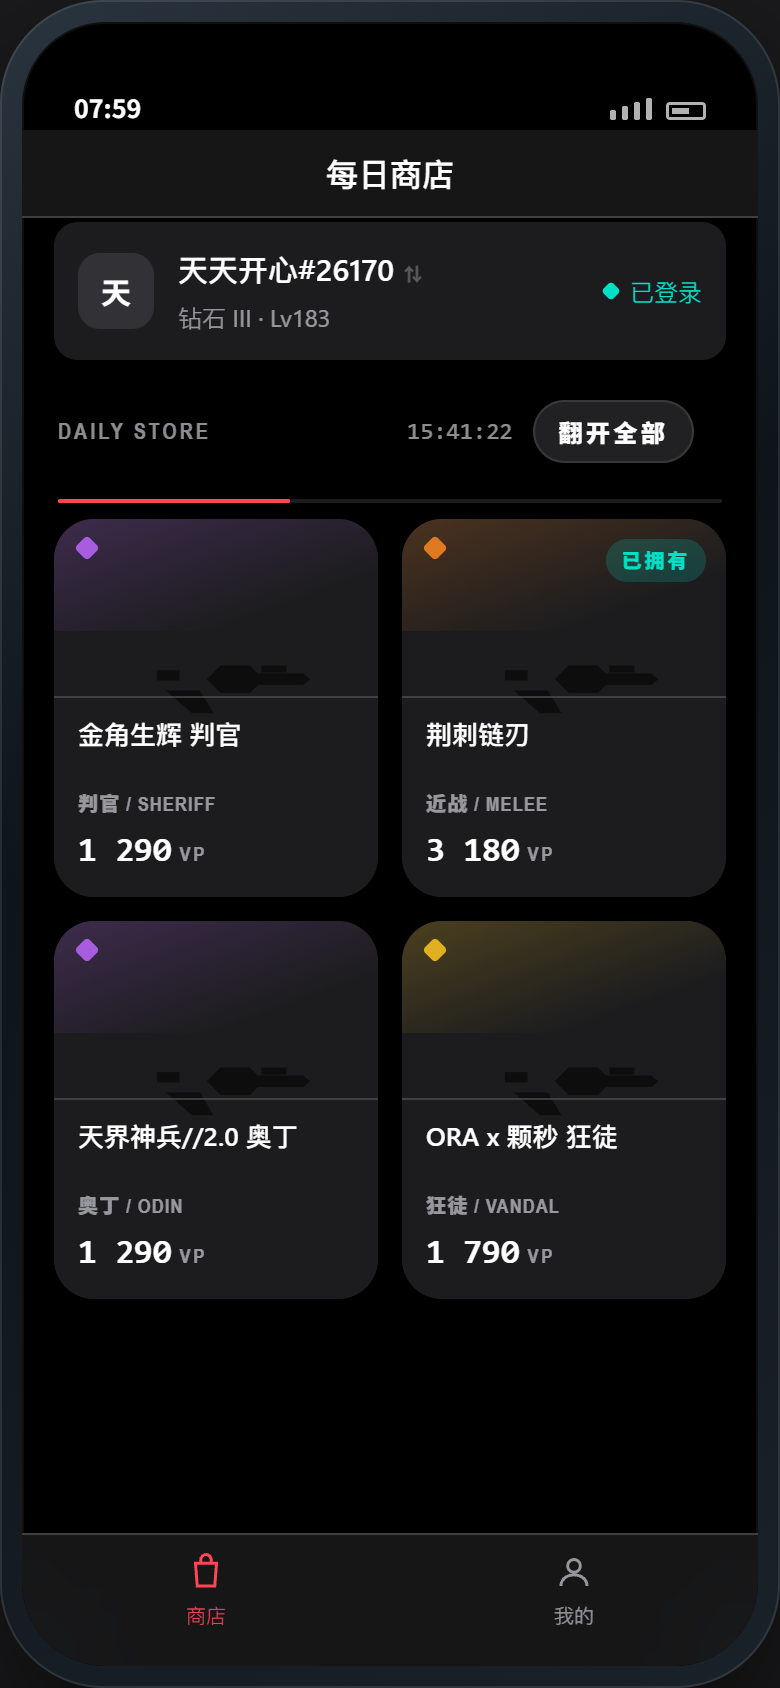
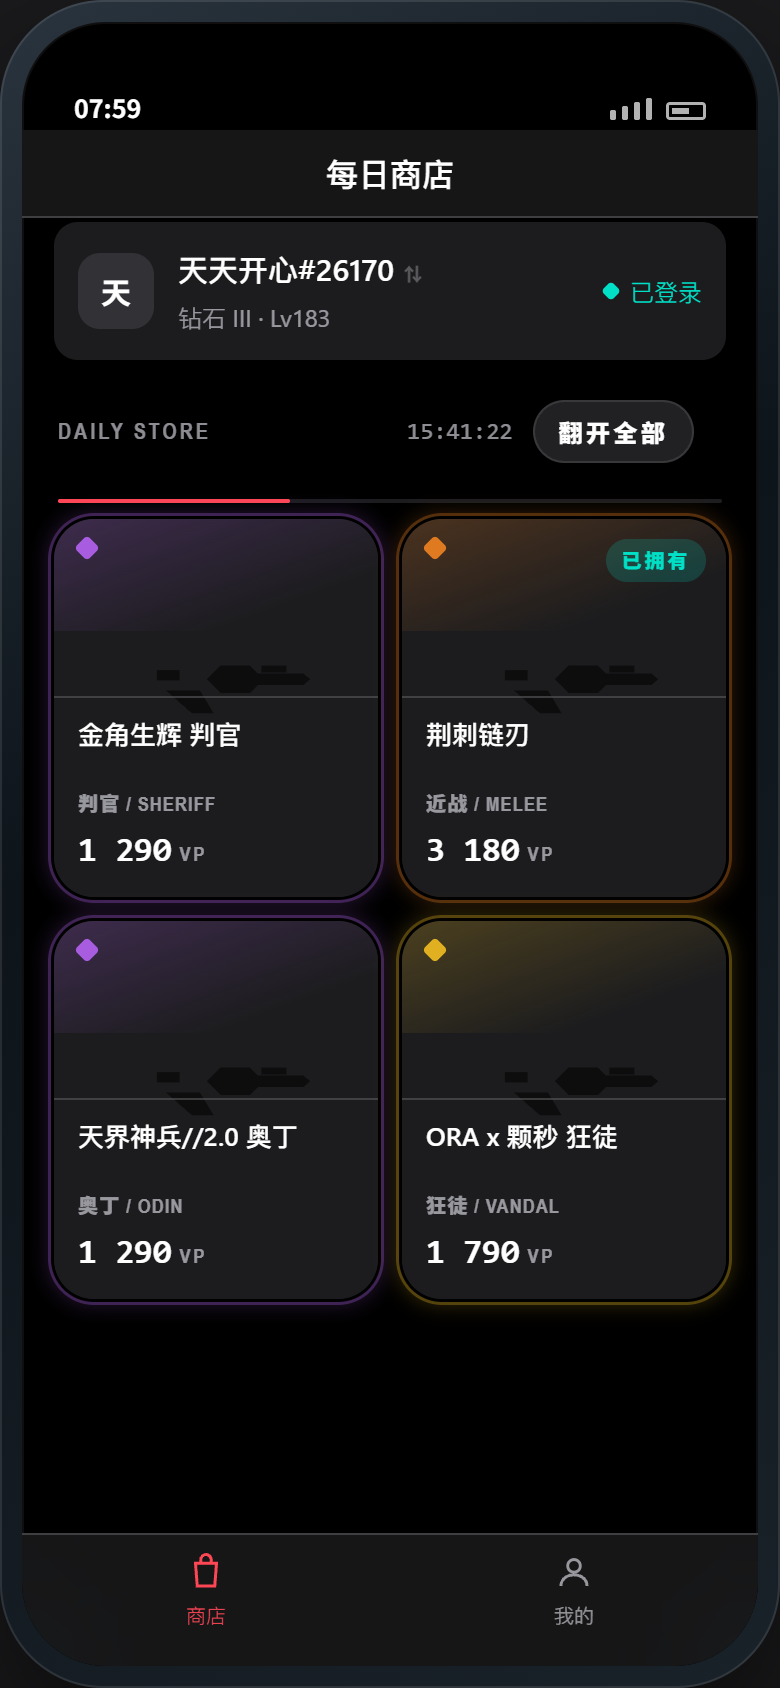
品质光修三处：连续路径、放慢、翻完之后常亮变淡
1) 断成四块
   原来对 RoundedRectangle 做 trim —— 它的 path 是多段子路径，trim 会按子路径
   分别裁剪，于是光变成四段。新增 ZWRing（单条连续子路径的圆角矩形），
   光的轨迹才是绕一圈连续的。

2) 太快
   扫一圈从 0.02–0.30（0.25s）放到 0.02–0.40，总时长 0.9 → 1.1s

3) 翻完光没了
   原来是淡出到 0。现在扫的时候最亮（flipGlow 1.0），翻到正面后收到
   flipGlowResting 0.38 常亮 —— 光一直在，只是变淡
   光头（跑动那段）扫完就收，只留整圈的品质光

时间线
- 0.00–0.40 光绕一圈    0.02–0.32 抬升
- 0.40–0.92 翻转（0.66 换面）  0.86–1.00 落下
- 0.58–0.88 光收到 38% 常亮

其它
- 预览台：光扫得更慢（1.1s），翻完后 ::after 常亮一圈品质色
- README 时间线同步

diff --git a/val-shop-ios/App/FlipCard.swift b/val-shop-ios/App/FlipCard.swift
@@ -66,37 +66,44 @@ private struct Flipper<Back: View, Front: View>: View, Animatable {
     /// 缓出：光跑起来时头快尾慢，更像"扫过去"
     private func easeOut(_ t: Double) -> Double { 1 - pow(1 - t, 3) }
 
-    /// 品质光走完一圈的进度
-    private var ringProgress: Double { easeOut(window(0.02, 0.30)) }
+    /// 品质光扫完一圈的进度（0.02 → 0.40，比上一版慢一倍）
+    private var ringProgress: Double { easeOut(window(0.02, 0.40)) }
 
-    /// 抬升量：0.02→0.30 起来，0.82→1.0 落下
+    /// 抬升量：0.02→0.32 起来，0.86→1.0 落下
     private var lift: Double {
         guard !reduceMotion else { return 0 }
-        let up = easeOut(window(0.02, 0.30))
-        let down = window(0.82, 1.0)
+        let up = easeOut(window(0.02, 0.32))
+        let down = window(0.86, 1.0)
         return up * (1 - down)
     }
 
-    /// 翻转角度：0.32→0.88 转完，最后 25% 加 3.2° 过冲
+    /// 翻转角度：0.40→0.92 转完（光扫完之后才翻），最后 25% 加 3.2° 过冲
     private var rotationAngle: Double {
         guard !reduceMotion else { return 0 }
-        let t = window(0.32, 0.88)
+        let t = window(0.40, 0.92)
         let tail = min(max((t - 0.75) / 0.25, 0), 1)
         return t * 180 + 3.2 * sin(.pi * tail)
     }
 
-    /// 光的存在感：跑圈时最强，落下时淡出
-    private var ringOpacity: Double {
-        if reduceMotion {
-            // 减弱动态效果：不跑圈，改成整体淡入淡出（只有透明度变化）
-            return sin(.pi * min(max(progress, 0), 1))
-        }
-        return 1 - window(0.82, 0.96)
+    /// 划过的那道"光头"：光扫完就收掉
+    private var cometOpacity: Double {
+        reduceMotion ? 0 : 1 - window(0.34, 0.48)
     }
 
-    /// 换面：翻转行程的中点。那一刻卡片侧对镜头，换面看不见
+    /// 整圈光的亮度。
+    /// **翻过来之后不消失**：扫的时候最亮，翻到正面后收在 `flipGlowResting` 常亮。
+    private var ringOpacity: Double {
+        if reduceMotion {
+            // 减弱动态效果：不跑圈，只做整体淡入 → 停在常亮档
+            return ZW.flipGlowResting + (1 - ZW.flipGlowResting) * sin(.pi * min(max(progress, 0), 1))
+        }
+        let settle = window(0.58, 0.88)      // 翻过去的过程中把亮度收下来
+        return ZW.flipGlow * (1 - settle) + ZW.flipGlowResting * settle
+    }
+
+    /// 换面：翻转行程的中点（0.40 与 0.92 之间）。那一刻卡片侧对镜头，换面看不见
     private var showsFront: Bool {
-        reduceMotion ? progress >= 0.5 : progress >= 0.60
+        reduceMotion ? progress >= 0.5 : progress >= 0.66
     }
 
     private var backOpacity: Double {
@@ -147,28 +154,37 @@ private struct Flipper<Back: View, Front: View>: View, Animatable {
                           perspective: reduceMotion ? 0 : 0.35)
     }
 
-    /// 周边品质光：一段亮光沿边缘跑一圈，走过的部分留下一圈包住卡牌的光晕
+    /// 周边品质光。
+    ///
+    /// 用 `ZWRing`（**单条连续子路径**）而不是 `RoundedRectangle` ——
+    /// 后者 trim 起来会按子路径分段裁，光会断成四块。
+    ///
+    /// 三层：
+    ///   ① 走过的轨迹：把卡"包"起来的光晕（翻完之后这一层常亮）
+    ///   ② 跑动的光头：一段短亮线，扫完就收
+    ///   ③ 光头自己的品质色晕
     private var ring: some View {
-        ZStack {
-            // 走过的轨迹 —— 把卡"包"起来的那层
-            shape
-                .trim(from: 0, to: ringProgress)
-                .stroke(accent.opacity(0.55), lineWidth: 4)
-                .blur(radius: 7)
+        let track = ZWRing(cornerRadius: cornerRadius, inset: 2)
 
-            // 跑动的光头 —— 一段短亮线
-            shape
+        return ZStack {
+            track
+                .trim(from: 0, to: ringProgress)
+                .stroke(accent, lineWidth: 4)
+                .blur(radius: 6)
+
+            track
                 .trim(from: max(0, ringProgress - 0.22), to: ringProgress)
                 .stroke(Color.white.opacity(0.95), lineWidth: 2)
                 .blur(radius: 1.2)
+                .opacity(cometOpacity)
 
-            // 光头自己也带一层品质色的晕
-            shape
+            track
                 .trim(from: max(0, ringProgress - 0.22), to: ringProgress)
                 .stroke(accent, lineWidth: 3.5)
                 .blur(radius: 5)
+                .opacity(cometOpacity)
         }
-        .opacity(ringOpacity * ZW.flipGlow)
+        .opacity(ringOpacity)
         .allowsHitTesting(false)
         .accessibilityHidden(true)
     }

diff --git a/val-shop-ios/App/DesignSystem.swift b/val-shop-ios/App/DesignSystem.swift
@@ -76,7 +76,7 @@ enum ZW {
     /// 翻牌时长。
     /// 现在是一整段编排（光跑一圈 → 抬升 → 翻转 → 落下），不是单纯翻转，
     /// 所以比原来长：0.9s。四张错开 130ms 连起来约 1.3s。
-    static let flip: Double = 0.9
+    static let flip: Double = 1.1
     /// 四张卡错开的间隔（毫秒）
     static let revealStagger: Int = 130
 
@@ -90,8 +90,10 @@ enum ZW {
     static let flipLiftOffset: CGFloat = 7
     /// 抬升时顺带放大多少（0.04 = 4%，和位移一起才有"离开桌面"的错觉）
     static let flipLiftScale: CGFloat = 0.04
-    /// 边缘透光的强度（**中性白**，翻之前不透露品质）
-    static let flipGlow: Double = 0.85
+    /// 品质光的强度（扫过去那一下最亮）
+    static let flipGlow: Double = 1.0
+    /// 翻过来之后，光**不消失**，留在这个透明度常亮（0.38 = 38%）
+    static let flipGlowResting: Double = 0.38
 }
 
 // ============================================================================
@@ -180,6 +182,50 @@ struct ZWHatchTexture: Shape {
             p.addLine(to: CGPoint(x: x + rect.height, y: rect.minY))
             x += pitch
         }
+        return p
+    }
+}
+
+/// 一个**单条连续子路径**的圆角矩形，专门用来做 `trim` 跑光。
+///
+/// 为什么不能用 `RoundedRectangle`：它的 path 由多段子路径拼成，
+/// `trim(from:to:)` 会按**每条子路径**分别裁剪 —— 表现就是光断成四块、不连续。
+/// 这里手工拼一条闭合路径（上边 → 右上弧 → 右边 → … → 左上弧），
+/// 这样 `trim` 才是沿着轮廓一圈走的。
+struct ZWRing: Shape {
+
+    var cornerRadius: CGFloat
+    var inset: CGFloat
+
+    init(cornerRadius: CGFloat, inset: CGFloat = 0) {
+        self.cornerRadius = cornerRadius
+        self.inset = inset
+    }
+
+    nonisolated func path(in rect: CGRect) -> Path {
+        let r = rect.insetBy(dx: inset, dy: inset)
+        let radius = max(0, min(cornerRadius, min(r.width, r.height) / 2))
+        var p = Path()
+
+        // 从上边中点出发，顺时针走一圈
+        p.move(to: CGPoint(x: r.midX, y: r.minY))
+        p.addLine(to: CGPoint(x: r.maxX - radius, y: r.minY))
+        p.addArc(center: CGPoint(x: r.maxX - radius, y: r.minY + radius),
+                 radius: radius, startAngle: .degrees(-90), endAngle: .degrees(0),
+                 clockwise: false)
+        p.addLine(to: CGPoint(x: r.maxX, y: r.maxY - radius))
+        p.addArc(center: CGPoint(x: r.maxX - radius, y: r.maxY - radius),
+                 radius: radius, startAngle: .degrees(0), endAngle: .degrees(90),
+                 clockwise: false)
+        p.addLine(to: CGPoint(x: r.minX + radius, y: r.maxY))
+        p.addArc(center: CGPoint(x: r.minX + radius, y: r.maxY - radius),
+                 radius: radius, startAngle: .degrees(90), endAngle: .degrees(180),
+                 clockwise: false)
+        p.addLine(to: CGPoint(x: r.minX, y: r.minY + radius))
+        p.addArc(center: CGPoint(x: r.minX + radius, y: r.minY + radius),
+                 radius: radius, startAngle: .degrees(180), endAngle: .degrees(270),
+                 clockwise: false)
+        p.closeSubpath()
         return p
     }
 }

diff --git a/val-shop-ios/design/preview.html b/val-shop-ios/design/preview.html
@@ -221,7 +221,7 @@ body{
    ========================================================================== */
 
 /* 抬升 + 落下（位移 + 轻微放大 + 底部阴影） */
-.card.flipped{animation:zwLift .9s cubic-bezier(.42,0,.58,1)}
+.card.flipped{animation:zwLift 1.1s cubic-bezier(.42,0,.58,1)}
 @keyframes zwLift{
   0%  {transform:translateY(0) scale(1);        box-shadow:0 0 0 rgba(0,0,0,0)}
   26% {transform:translateY(-7px) scale(1.04);  box-shadow:0 16px 26px rgba(0,0,0,.55)}
@@ -238,13 +238,20 @@ body{
           mask:radial-gradient(farthest-side,transparent calc(100% - 4px),#000 calc(100% - 3px));
   opacity:0;pointer-events:none;
 }
-.card.flipped::before{animation:zwRing .9s cubic-bezier(.42,0,.58,1)}
+.card.flipped::before{animation:zwRing 1.1s cubic-bezier(.42,0,.58,1)}
 @keyframes zwRing{
   0%  {opacity:0;transform:rotate(-90deg)}
   8%  {opacity:1}
-  62% {opacity:1;transform:rotate(240deg)}
-  84% {opacity:.6;transform:rotate(268deg)}
+  40% {opacity:1;transform:rotate(230deg)}
+  52% {opacity:.9;transform:rotate(270deg)}
   100%{opacity:0;transform:rotate(270deg)}
+}
+/* 翻完之后：整圈品质光**常亮**（约 38%），不消失 */
+.card.flipped::after{
+  content:"";position:absolute;inset:-3px;border-radius:calc(var(--r-card) + 3px);
+  box-shadow:inset 0 0 0 1.5px var(--tier), 0 0 10px color-mix(in srgb,var(--tier) 60%,transparent);
+  opacity:.38;pointer-events:none;
+  transition:opacity .3s ease .55s;
 }
 
 .back-art{position:absolute;inset:0;

diff --git a/val-shop-ios/README.md b/val-shop-ios/README.md
@@ -272,14 +272,18 @@ Info.plist 里开了 `UIFileSharingEnabled` + `LSSupportsOpeningDocumentsInPlace
 
 | 时间段 | 发生什么 |
 |---|---|
-| `0.00 – 0.30` | **品质光沿卡牌边缘跑一圈**，走过的部分留下一圈光晕把卡「包」起来 |
-| `0.02 – 0.30` | **向顶部抬升**（位移 7pt + 放大 4%），底部阴影拉开变散 |
-| `0.32 – 0.88` | **翻转**（抬着翻），末尾 3.2° 过冲再回正 |
-| `0.64` | **换面** —— 正好是翻转行程的中点，卡片侧对镜头，看不见 |
-| `0.82 – 1.00` | **落下**，阴影收拢，品质光淡出 |
+| `0.00 – 0.40` | **品质光沿卡牌边缘跑一圈**（慢一点，看得清），走过的轨迹留下一圈把卡「包」起来的光晕 |
+| `0.02 – 0.32` | **向顶部抬升**（位移 7pt + 放大 4%），底部阴影拉开变散 |
+| `0.40 – 0.92` | **翻转**（抬着翻），末尾 3.2° 过冲再回正 |
+| `0.66` | **换面** —— 翻转行程的中点，卡片侧对镜头，看不见 |
+| `0.86 – 1.00` | **落下**，阴影收拢 |
+| `0.58 – 0.88` | 整圈光**从全亮收到 `ZW.flipGlowResting = 0.38` 常亮** —— 翻过来之后光不消失，只是变淡 |
 
-总时长 `ZW.flip = 0.9s`，四张错开 130ms，连起来约 1.3s。
+总时长 `ZW.flip = 1.1s`，四张错开 130ms，连起来约 1.6s。
 **可逆**：翻到一半再点，进度从当前值往回走，整段编排倒放。
+
+> 光走的轮廓用 `ZWRing`（**单条连续子路径**）。用 `RoundedRectangle` 做 `trim` 会
+> 按子路径分段裁，光会断成四块 —— 这个坑踩过一次。
 
 > 那道光用的是**品质色**（`accent`）。不想在翻之前剧透档位，就把 `StoreCardView` 里
 > 传的 `accent: tint` 换成 `accent: .white` —— 一行。
